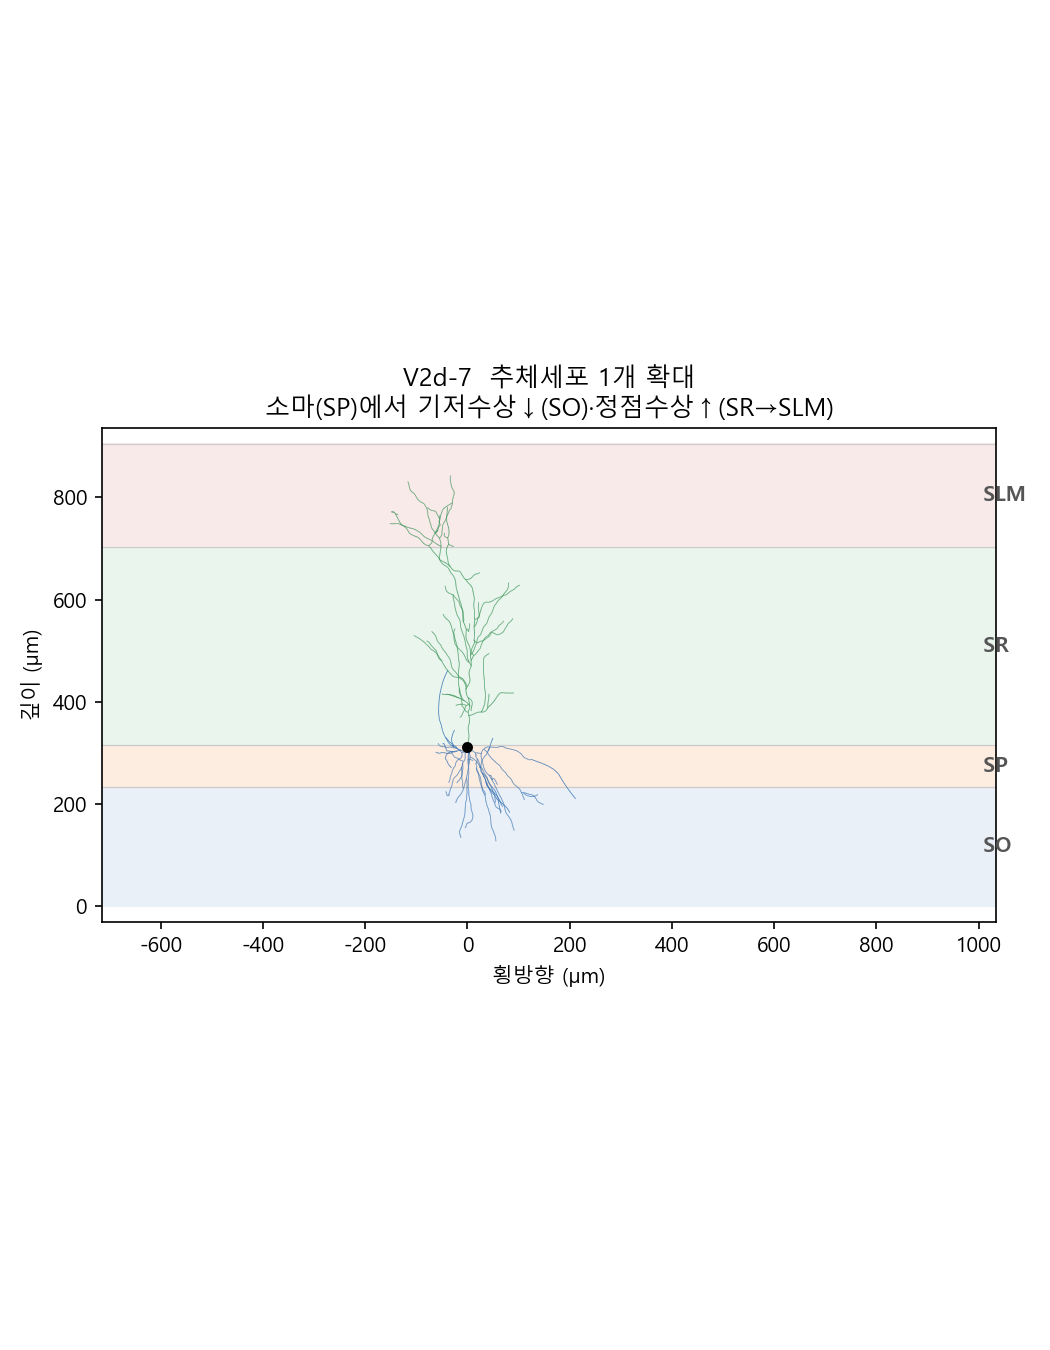
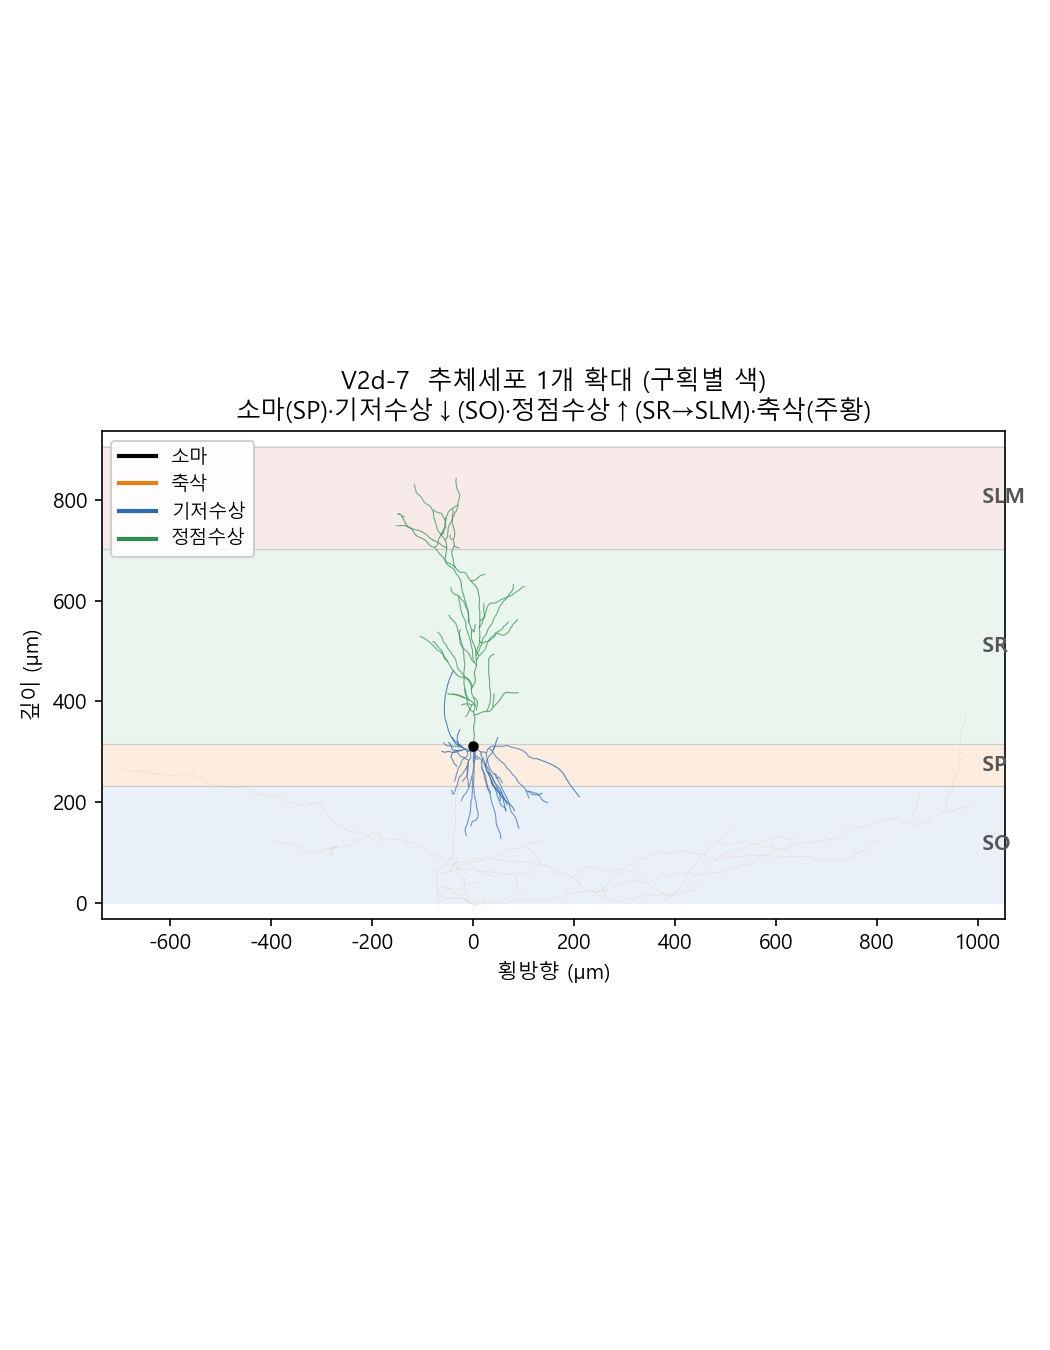
Step 6: color morphology by compartment (soma/axon/basal/apical) + legend
- render_slice_patch: axon (faint orange haze) + dendrites (blue/green) + soma (black)
  with compartment legend on V2d_6 patch and V2d_7 zoom

diff --git a/like_slice_CA1/06_orientation/render_slice_patch.py b/like_slice_CA1/06_orientation/render_slice_patch.py
@@ -36,8 +36,8 @@ FIG = os.path.join(HERE, "figures")
 LAYER_BOUND = [("SO", 0, 233), ("SP", 233, 315), ("SR", 315, 702), ("SLM", 702, 905)]
 LAYER_BG = {"SO": "#eaf0f7", "SP": "#fdece0", "SR": "#eaf5ee", "SLM": "#f9eaea"}
 T_TOTAL = 905.0
-COMP_COLOR = {3: "#2b6cb0", 4: "#2f8f4e", 1: "#000000"}  # 기저/정점/소마
-COMP_NAME = {3: "기저수상", 4: "정점수상", 1: "소마"}
+COMP_COLOR = {1: "#000000", 2: "#e08214", 3: "#2b6cb0", 4: "#2f8f4e"}  # 소마/축삭/기저/정점
+COMP_NAME = {1: "소마", 2: "축삭", 3: "기저수상", 4: "정점수상"}
 rng = np.random.default_rng(3)
 
 
@@ -48,25 +48,39 @@ def local_frame(quat):
             R.apply([0., 0., 1.]))   # t2(두께)
 
 
-def draw_cell(ax, world, swc, c0_pos, nd_c0, radial, t1, include_axon=False):
-    """세포 형태를 (가로=t1투영, 세로=깊이) 평면에 선분으로."""
+def draw_cell(ax, world, swc, c0_pos, nd_c0, radial, t1, include_axon=True):
+    """세포 형태를 (가로=t1투영, 세로=깊이) 평면에 구획별 색 선분으로.
+    축삭은 옅고 얇게(배경 haze), 수상돌기는 진하게 위에 그림."""
     id2idx = {int(i): k for k, i in enumerate(swc["id"])}
     horiz = (world - c0_pos) @ t1
     depth = nd_c0 * T_TOTAL + (world - c0_pos) @ radial
-    segs, cols = [], []
+    ax_segs, dn_segs, dn_cols = [], [], []
     for k, par in enumerate(swc["parent"]):
         t = swc["type"][k]
-        if t == 2 and not include_axon:
-            continue
         j = id2idx.get(int(par))
         if j is None:
             continue
-        segs.append([(horiz[j], depth[j]), (horiz[k], depth[k])])
-        cols.append(COMP_COLOR.get(t, "#bbbbbb"))
-    ax.add_collection(LineCollection(segs, colors=cols, linewidths=0.4, alpha=0.8))
-    # 소마 점
+        seg = [(horiz[j], depth[j]), (horiz[k], depth[k])]
+        if t == 2:
+            if include_axon:
+                ax_segs.append(seg)
+        else:
+            dn_segs.append(seg); dn_cols.append(COMP_COLOR.get(t, "#bbbbbb"))
+    if ax_segs:   # 축삭: 옅은 배경
+        ax.add_collection(LineCollection(ax_segs, colors=COMP_COLOR[2],
+                                         linewidths=0.2, alpha=0.18, zorder=2))
+    ax.add_collection(LineCollection(dn_segs, colors=dn_cols,
+                                     linewidths=0.5, alpha=0.85, zorder=3))
     sm = swc["type"] == 1
-    ax.scatter(horiz[sm].mean(), depth[sm].mean(), s=18, c="k", zorder=5)
+    ax.scatter(horiz[sm].mean(), depth[sm].mean(), s=16, c="k", zorder=5)
+
+
+def comp_legend(ax, with_axon=True):
+    from matplotlib.lines import Line2D
+    order = [1, 2, 3, 4] if with_axon else [1, 3, 4]
+    ax.legend(handles=[Line2D([0], [0], color=COMP_COLOR[t], lw=2,
+                              label=COMP_NAME[t]) for t in order],
+              loc="upper left", fontsize=9, framealpha=0.9)
 
 
 def layer_bands(ax, xmin, xmax):
@@ -126,10 +140,8 @@ def main():
     ax.set_xlim(hmin, hmax); ax.set_ylim(-30, T_TOTAL + 30)
     ax.set_xlabel("횡방향 (µm)"); ax.set_ylabel("깊이 (µm, SO바닥=0 → SLM천장)")
     ax.set_title(f"V2d-6  찍은 직사각형 박스 내 전체 {len(idx)}세포 (가로150×두께36µm×전층)\n"
-                 "기저수상(파랑)=SO쪽 · 정점수상(초록)=SR/SLM쪽 · 검정=소마 · 배경=층")
-    from matplotlib.lines import Line2D
-    ax.legend(handles=[Line2D([0], [0], color=COMP_COLOR[t], label=COMP_NAME[t])
-                       for t in (3, 4, 1)], loc="upper left", fontsize=9)
+                 "구획별 색: 소마/축삭/기저수상/정점수상 · 배경=층")
+    comp_legend(ax, with_axon=True)
     ax.set_aspect("equal")
     fig.tight_layout()
     fig.savefig(os.path.join(FIG, "V2d_6_slice_patch.png"), dpi=140)
@@ -141,11 +153,13 @@ def main():
     w, _ = mt.transform(s["xyz"], mt.soma_center(s), quat[c0], xyz[c0])
     hh = (w - xyz[c0]) @ t1
     layer_bands(ax, hh.min(), hh.max())
-    draw_cell(ax, w, s, xyz[c0], nd_c0, radial, t1, include_axon=False)
-    ax.set_xlim(hh.min() - 20, hh.max() + 40)
+    draw_cell(ax, w, s, xyz[c0], nd_c0, radial, t1, include_axon=True)
+    ax.set_xlim(hh.min() - 40, hh.max() + 60)
     ax.set_ylim(-30, T_TOTAL + 30)
     ax.set_xlabel("횡방향 (µm)"); ax.set_ylabel("깊이 (µm)")
-    ax.set_title("V2d-7  추체세포 1개 확대\n소마(SP)에서 기저수상↓(SO)·정점수상↑(SR→SLM)")
+    ax.set_title("V2d-7  추체세포 1개 확대 (구획별 색)\n"
+                 "소마(SP)·기저수상↓(SO)·정점수상↑(SR→SLM)·축삭(주황)")
+    comp_legend(ax, with_axon=True)
     ax.set_aspect("equal")
     fig.tight_layout()
     fig.savefig(os.path.join(FIG, "V2d_7_zoom.png"), dpi=150)